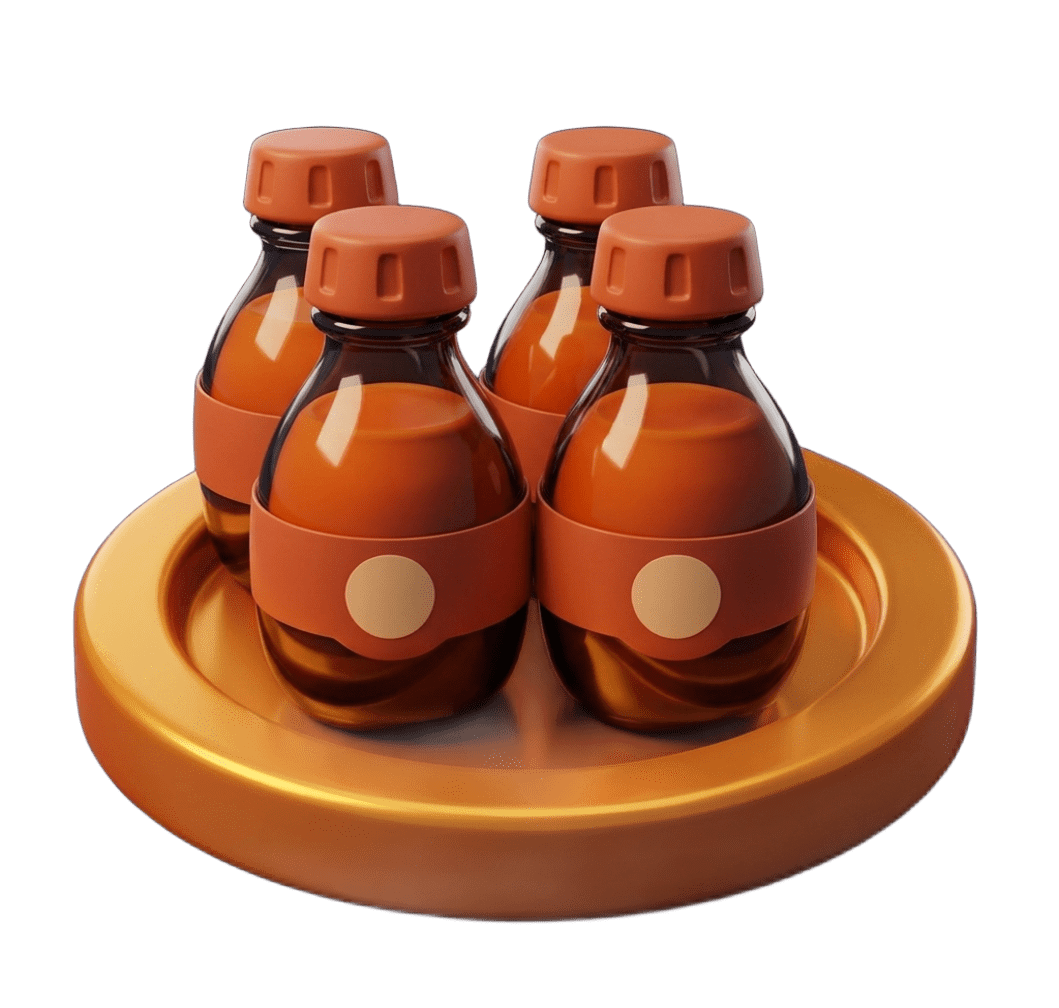
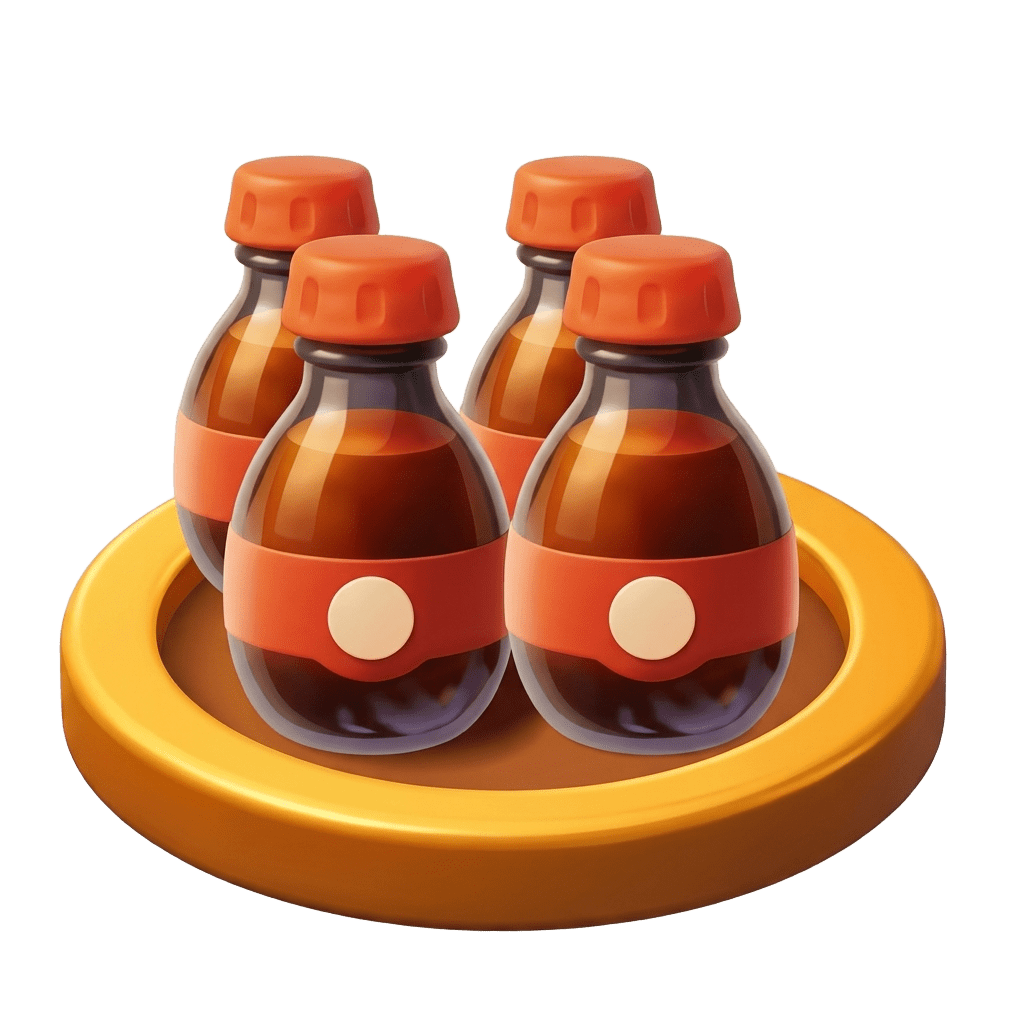
feat: added new bottle imgs, movesCount and fix init game

diff --git a/src/components/Board.tsx b/src/components/Board.tsx
@@ -1,6 +1,6 @@
 'use client';
 
-import { useEffect, useState } from 'react';
+import { useEffect, useState, useRef } from 'react';
 import { useGameStore } from '@/store/useGameStore';
 import { Tile } from './Tile';
 import { useGesture } from '@use-gesture/react';
@@ -8,10 +8,17 @@ import { motion, AnimatePresence } from 'framer-motion';
 import Image from 'next/image';
 
 export const Board = () => {
-  const { tiles, initGame, move, score, gameOver } = useGameStore();
+  // 👇 Adicionado movesCount da store
+  const { tiles, initGame, move, score, movesCount, gameOver } = useGameStore();
   const [showModal, setShowModal] = useState(false);
+  const isAnimatingRef = useRef(false);
 
-  // Sincroniza o modal local sempre que o estado de gameOver mudar
+  useEffect(() => {
+    if (tiles.length === 0) {
+      initGame();
+    }
+  }, [initGame, tiles.length]);
+
   useEffect(() => {
     if (gameOver) {
       setShowModal(true);
@@ -20,16 +27,24 @@ export const Board = () => {
 
   const handleInitGame = () => {
     setShowModal(false);
+    isAnimatingRef.current = false;
     initGame();
   };
 
   const handleAttemptMove = (direction: 'UP' | 'DOWN' | 'LEFT' | 'RIGHT') => {
     if (gameOver) {
-      // Se o jogo acabou e o modal estava fechado, reabre o modal ao tentar mover
       setShowModal(true);
       return;
     }
+
+    if (isAnimatingRef.current) return;
+
+    isAnimatingRef.current = true;
     move(direction);
+
+    setTimeout(() => {
+      isAnimatingRef.current = false;
+    }, 180);
   };
 
   useEffect(() => {
@@ -69,8 +84,22 @@ export const Board = () => {
 
   return (
     <div className="flex flex-col items-center gap-4">
+      {/* Cabeçalho de Placar com Pontos e Jogadas */}
       <div className="flex justify-between items-center w-full max-w-md px-2">
-        <span className="text-2xl font-black text-amber-200">Pontos: {score}</span>
+        <div className="flex items-center gap-4">
+          <div className="flex flex-col">
+            <span className="text-xs font-bold text-amber-400 uppercase tracking-wider">Pontos</span>
+            <span className="text-2xl font-black text-amber-200 leading-none">{score}</span>
+          </div>
+          
+          <div className="w-[1px] h-8 bg-amber-700/50" />
+
+          <div className="flex flex-col">
+            <span className="text-xs font-bold text-amber-400 uppercase tracking-wider">Jogadas</span>
+            <span className="text-2xl font-black text-amber-200 leading-none">{movesCount}</span>
+          </div>
+        </div>
+
         <button
           onClick={handleInitGame}
           className="bg-amber-600 hover:bg-amber-500 text-white px-4 py-2 rounded-xl font-bold text-sm shadow-md transition transform active:scale-95"
@@ -79,11 +108,11 @@ export const Board = () => {
         </button>
       </div>
 
+      {/* Tabuleiro */}
       <div
         {...bind()}
         className="relative w-[460px] h-[460px] sm:w-[560px] sm:h-[560px] touch-none select-none shadow-2xl rounded-2xl overflow-hidden"
       >
-        {/* Imagem de Fundo do Grid */}
         <Image
           src="/assets/board_bg.png"
           alt="Tabuleiro"
@@ -93,7 +122,6 @@ export const Board = () => {
           className="object-contain pointer-events-none"
         />
 
-        {/* Área Jogável Interna */}
         <div
           className="absolute inset-0 pointer-events-none"
           style={{
@@ -110,7 +138,7 @@ export const Board = () => {
           </div>
         </div>
 
-        {/* Modal de Game Over */}
+        {/* Modal de Game Over com estatísticas atualizadas */}
         <AnimatePresence>
           {gameOver && showModal && (
             <motion.div
@@ -122,11 +150,20 @@ export const Board = () => {
               <h2 className="text-3xl font-black text-amber-400 mb-2">Fim de Jogo!</h2>
               <p className="text-gray-300 mb-4 font-semibold">Sem movimentos disponíveis.</p>
 
-              <div className="bg-amber-900/50 border border-amber-600/40 rounded-xl px-6 py-3 mb-6">
-                <span className="text-xs uppercase tracking-wider text-amber-300 font-bold block">
-                  Pontuação Final
-                </span>
-                <span className="text-4xl font-extrabold text-white">{score}</span>
+              <div className="flex gap-3 mb-6">
+                <div className="bg-amber-900/50 border border-amber-600/40 rounded-xl px-5 py-3">
+                  <span className="text-xs uppercase tracking-wider text-amber-300 font-bold block">
+                    Pontuação
+                  </span>
+                  <span className="text-3xl font-extrabold text-white">{score}</span>
+                </div>
+
+                <div className="bg-amber-900/50 border border-amber-600/40 rounded-xl px-5 py-3">
+                  <span className="text-xs uppercase tracking-wider text-amber-300 font-bold block">
+                    Jogadas
+                  </span>
+                  <span className="text-3xl font-extrabold text-white">{movesCount}</span>
+                </div>
               </div>
 
               <div className="flex flex-col gap-3 w-full max-w-xs">

diff --git a/src/store/useGameStore.ts b/src/store/useGameStore.ts
@@ -4,6 +4,7 @@ import { Tile, Direction } from '@/types/game';
 interface GameState {
   tiles: Tile[];
   score: number;
+  movesCount: number;
   gameOver: boolean;
   initGame: () => void;
   move: (direction: Direction) => void;
@@ -62,16 +63,17 @@ export const useGameStore = create<GameState>((set, get) => ({
   tiles: [],
   score: 0,
   gameOver: false,
+  movesCount: 0,
 
   initGame: () => {
     let initialTiles: Tile[] = [];
     initialTiles = spawnRandomTile(initialTiles);
     initialTiles = spawnRandomTile(initialTiles);
-    set({ tiles: initialTiles, score: 0, gameOver: false });
+    set({ tiles: initialTiles, score: 0, movesCount: 0, gameOver: false });
   },
 
   move: (direction: Direction) => {
-    const { tiles, score, gameOver } = get();
+    const { tiles, score, movesCount, gameOver } = get();
     if (gameOver) return;
 
     let moved = false;
@@ -138,7 +140,7 @@ export const useGameStore = create<GameState>((set, get) => ({
     if (moved) {
       const tilesWithNewOne = spawnRandomTile(newTiles);
       const isOver = checkGameOver(tilesWithNewOne);
-      set({ tiles: tilesWithNewOne, score: newScore, gameOver: isOver });
+      set({ tiles: tilesWithNewOne, score: newScore, movesCount: movesCount + 1, gameOver: isOver });
     }
   },
 }));

diff --git a/src/app/page.tsx b/src/app/page.tsx
@@ -3,7 +3,7 @@ import { Board } from '@/components/Board';
 export default function Home() {
   return (
     <main className="flex min-h-screen flex-col items-center justify-center p-4 bg-gradient-to-b from-amber-900 to-amber-950 text-white">
-      <h1 className="text-3xl font-extrabold mb-6 tracking-wide drop-shadow-md">Bottle Merge 2048</h1>
+      <h1 className="text-3xl font-extrabold mb-6 tracking-wide drop-shadow-md">Bottle Merge Game</h1>
       <Board />
     </main>
   );
